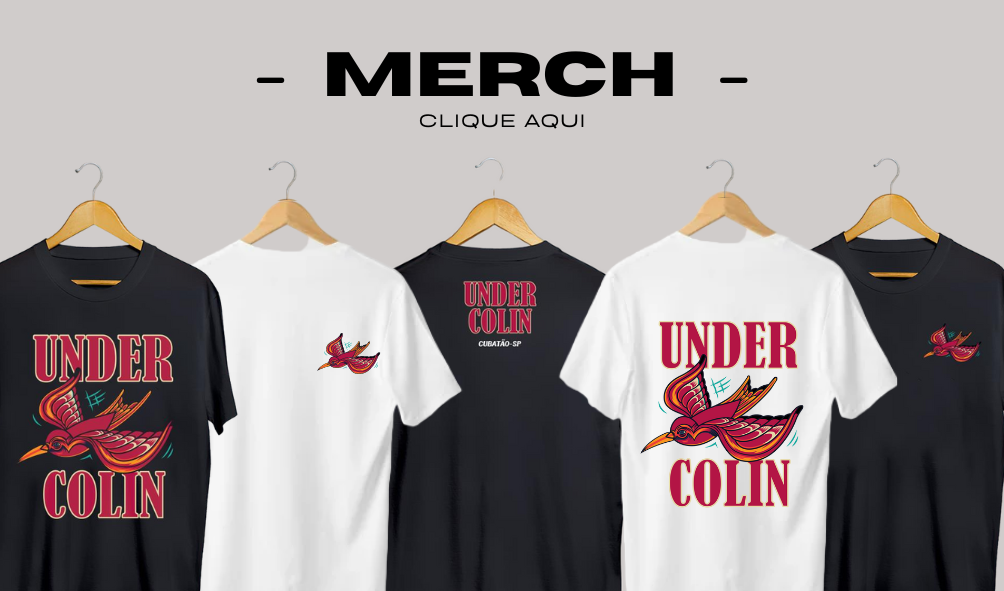
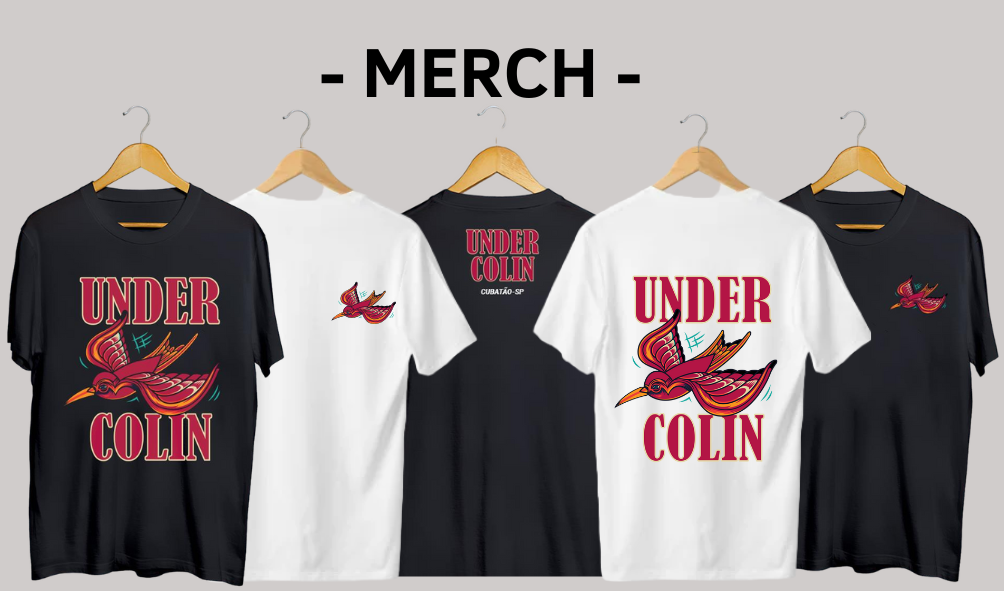
ajustes de layout, e implementação do teste de single spotify

diff --git a/src/components/Underfest/Underfest.css b/src/components/Underfest/Underfest.css
@@ -5,7 +5,7 @@
   justify-content: center;
   width: 100%;
   background-image: linear-gradient(rgba(0, 0, 0, 0.8), rgba(0, 0, 0, 0.9)),
-    url(../assets/images/underfest.jpg);
+    url('../../assets/images/underfest.jpg');
   background-size: cover;
   background-repeat: no-repeat;
   background-position: center;
@@ -23,7 +23,6 @@
 .detailLine {
   margin: 0;
   width: 100%;
-  max-width: 1900px;
   color: #fff;
   display: flex;
 
@@ -60,33 +59,35 @@
   text-align: center;
   color: rgb(255, 255, 255);
   text-decoration: none;
-  font-size: 1.8rem;
+  font-size: 1.2rem;
   display: flex;
   justify-content: center;
   align-items: center;
   margin-left: auto;
   margin-right: auto;
-  width: 65%;
+  border-radius: 10px;
+  padding: 1rem 2.5rem;
+  border-style: solid;
+  border-width: 1px;
+  /* border-color: rgba(255, 255, 255, 0.5); */
+  box-shadow: 1px 1px 5px rgb(0, 0, 0), 0 0 15px rgb(221, 218, 218), 0 0 5px rgb(0, 0, 0);
+
+  transition: background-color 0.3s ease,
+    box-shadow 0.3s ease;
+  /* background-color: rgba(255, 254, 254, 0.8); */
+  /* width: 50%; */
 
 }
 
 .textUnderfest {
   font-family: "DIN Condensed Web", sans-serif;
-  font-size: 1.7rem;
+  font-size: 1.8rem;
   color: #fff;
-  padding: 0;
   text-align: center;
   text-shadow: 2px 2px 4px rgba(0, 0, 0, 0.7);
-  margin: 5rem;
-  /* text-decoration: underline; */
-  /* text-decoration-thickness: 2px; */
-  /* text-underline-offset: 5px; */
-  background-color: rgba(0, 0, 0, 0.8);
-  padding: 1rem;
-  width: 45%;
-  margin-left: auto;
-  margin-right: auto;
-  border-radius: 20px;
+  margin: 3rem 0;
+  /* padding: 1rem; */
+  width: 100%;
 }
 
 .bands {

diff --git a/src/components/PhotosUndercolin/Material.tsx b/src/components/PhotosUndercolin/Material.tsx
@@ -5,7 +5,34 @@ import './Material.css';
 import foto1 from '../../assets/material/material1.jpg';
 import foto2 from '../../assets/material/material2.jpg';
 import foto3 from '../../assets/material/material3.jpg';
-import { Link } from 'react-router-dom';
+
+function SpotifySingle() {
+  return (
+    <div style={{
+      display: 'flex',
+      alignItems: 'center',
+      // gap: '20px',
+      padding: '20px',
+      paddingBottom: '60px',
+      margin: '0 auto',
+      width: '50%',
+      alignSelf: 'center',
+      justifyContent: 'center'
+    }}>
+
+      < iframe
+        style={{ borderRadius: '12px' }}
+        src="https://open.spotify.com/embed/track/3MAFVGKEVV9EgO1lQnPqcc?utm_source=generator"
+        width="100%"
+        height="352"
+        allow="autoplay; clipboard-write; encrypted-media; fullscreen; picture-in-picture"
+        loading="lazy"
+        title="Undercolin Single"
+      />
+    </div >
+  );
+}
+
 
 export function Material() {
   return (
@@ -39,10 +66,11 @@ export function Material() {
             <span className="visually-hidden">Next</span>
           </button>
         </div>
-        <Link to="https://linktr.ee/undercolin" className='linkMaterial'>
-          <a> CLIQUE AQUI E CONFIRA OS NOSSOS CONTEÚDOS</a>
-        </Link>
       </div>
+      <div className='spotifySingle'>
+        <SpotifySingle />
+      </div>
+
     </>
   );
 }

diff --git a/src/components/Home/HomeStyle.tsx b/src/components/Home/HomeStyle.tsx
@@ -7,11 +7,13 @@ export const HomeStyle = styled.div`
     width: 100%;
     justify-content: space-between;
     align-items: center;
-    height: 5rem;
     background-color: rgb(30, 31, 36);
     position: relative;
     box-sizing: border-box;
-    padding: 0 1rem; // Ajuste de padding para evitar overflow
+    padding: 0 1rem;
+    box-shadow: 0 1px 15px rgba(0, 0, 0, 0.8);
+    z-index: 1000;
+    height: 100px;
 
   }
 
@@ -22,6 +24,27 @@ export const HomeStyle = styled.div`
     display: flex;
     align-items: center;
     justify-content: center; 
+
+}
+
+
+  .homeContainer {
+    display: flex;
+    flex-direction: column;
+    align-items: center;
+    padding: 2rem;
+    background-color: rgb(30, 31, 36);
+    color: #fff;
+  }
+
+  .sectionMaterial {
+    margin-top: 2rem;
+  }
+
+  .navSection {
+    display: flex;
+    justify-content: space-between;
+    align-items: center;
 }
 
   .navSectionLeft,
@@ -34,8 +57,7 @@ export const HomeStyle = styled.div`
   .navLink {
     padding: 0px 25px;
     font-family: "DIN Condensed Web";
-    font-size: 1rem;
-    font-weight: bold; 
+    font-size: 1.5rem;
     letter-spacing: 1px;
     text-decoration: none; 
     color: #fff; 

diff --git a/src/components/Merch/merchHome.css b/src/components/Merch/merchHome.css
@@ -3,12 +3,15 @@
   display: block;
   margin-top: 8rem;
   margin-bottom: 5rem;
-  background-color: #242424;
+  background-color: #d0cccb;
+  justify-self: center;
+  box-shadow: 1px 1px 5px rgb(0, 0, 0), 0 0 35px rgb(224, 224, 250), 0 0 5px rgb(0, 0, 0);
+
 }
 
 
 img {
-  width: 70%;
+  width: 50%;
 }
 
 @media (max-width: 768px) {
@@ -27,6 +30,6 @@ img {
   }
 
   img {
-    width: 75%;
+    width: 95%;
   }
 }

diff --git a/src/components/Schedule/Schedule.css b/src/components/Schedule/Schedule.css
@@ -5,10 +5,10 @@
   align-items: center;
   background-color: rgb(30, 31, 36);
   border-radius: 20px;
-  padding: 1.5rem 5rem 1.5rem;
-  box-shadow: 0px 0 10px rgba(68, 67, 67, 0.5);
+  padding: 3rem 20rem 3rem;
   height: auto;
   justify-self: center;
+  box-shadow: 0 10px 15px rgba(0, 0, 0, 0.5);
 }
 
 .titleShedule {

diff --git a/src/components/Merch/Merch.css b/src/components/Merch/Merch.css
@@ -21,7 +21,7 @@ body {
   display: grid;
   grid-template-columns: repeat(2, 1fr);
   gap: 5rem;
-  width: 60%;
+  width: 50%;
   margin: 0 auto;
 }
 
@@ -30,7 +30,6 @@ body {
   width: 100%;
   height: auto;
   object-fit: cover;
-  /* Mantém a proporção da imagem */
 }
 
 

diff --git a/src/components/App/App.css b/src/components/App/App.css
@@ -14,6 +14,7 @@
   align-items: center;
   position: relative;
   padding: 1.5rem;
+  margin-top: 5%;
 }
 
 .logo-passarinho {

diff --git a/src/components/PhotosUndercolin/Material.css b/src/components/PhotosUndercolin/Material.css
@@ -39,7 +39,6 @@
 
 
   .detailLine {
-    width: 100%;
     color: #ffffff;
     display: flex;
   }
